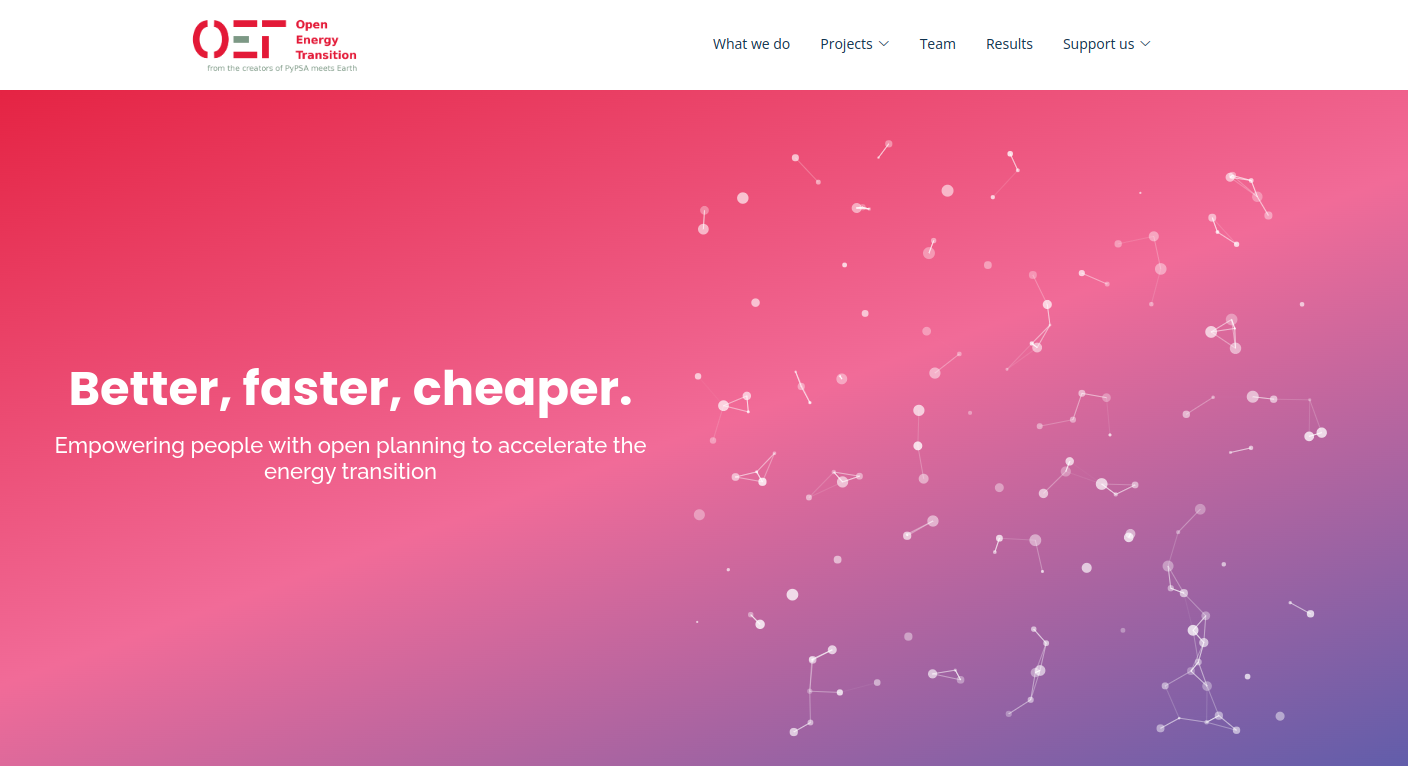
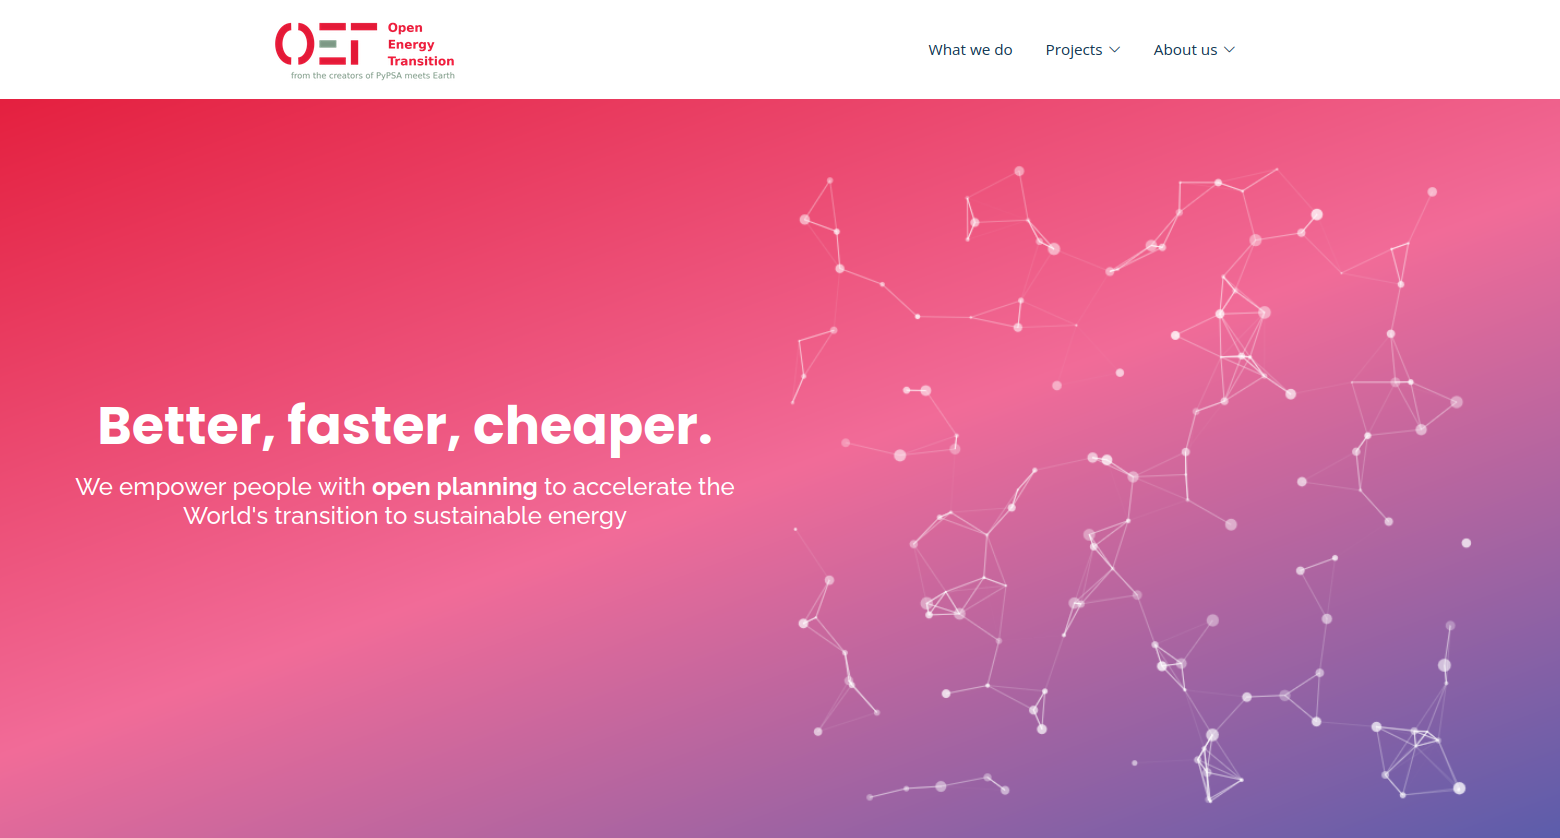
fix transiton typo and webscreenshot

diff --git a/index.html b/index.html
@@ -6,20 +6,20 @@
     <meta content="width=device-width, initial-scale=1.0" name="viewport">
 
     <!-- HTML Meta Tags -->
-    <title>Open Energy Transiton - A non-profit tackling globally energy planning challenges with an unique open approach.</title>
-    <meta name="description" content="The Open Energy Transiton gGmbH works on open-source software, open data and open communities for energy system planning to enable better decision-making."/>
+    <title>Open Energy Transition - A non-profit tackling globally energy planning challenges with an unique open approach.</title>
+    <meta name="description" content="The Open Energy Transition gGmbH works on open-source software, open data and open communities for energy system planning to enable better decision-making."/>
     <!-- Google verfication to be 'findable' on google -->
     <meta name="google-site-verification" content="gHJzkLzpVaJqghYQHRS6GrS92bTJjLyfr9FUIxQCd2U" />
     <!-- Authors -->
     <link rel="author" href="https://pypsa-earth.readthedocs.io/en/latest/project_structure_and_credits.html"/>
 
     <!-- Google / Search Engine Tags -->
-    <meta itemprop="name" content="Open Energy Transiton - A non-profit tackling energy planning challenges worldwide."/>
-    <meta itemprop="description" content="The Open Energy Transiton gGmbH works on open-source software, open data and open communities for energy system planning to enable better decision-making."/>
+    <meta itemprop="name" content="Open Energy Transition - A non-profit tackling energy planning challenges worldwide."/>
+    <meta itemprop="description" content="The Open Energy Transition gGmbH works on open-source software, open data and open communities for energy system planning to enable better decision-making."/>
     <meta itemprop="image" content="https://openenergytransition.org/assets/img/website_screenshot.png"/>
 
     <!-- Facebook Meta Tags -->
-    <meta name="title" property="og:title" content="Open Energy Transiton - A non-profit tackling energy planning challenges worldwide."/>
+    <meta name="title" property="og:title" content="Open Energy Transition - A non-profit tackling energy planning challenges worldwide."/>
     <meta name="type" property="og:type" content="website"/>
     <meta name="image" property="og:image" content="https://openenergytransition.org/assets/img/website_screenshot.png"/>
     <meta name="url" property="og:url" content="https://openenergytransition.org"/>
@@ -27,8 +27,8 @@
 
     <!-- Twitter Meta Tags -->
     <meta name="twitter:card" content="summary_large_image"/>
-    <meta name="twitter:title" content="Open Energy Transiton - A non-profit tackling energy planning challenges worldwide."/>
-    <meta name="twitter:description" content="The Open Energy Transiton gGmbH works on open-source software, open data and open communities for energy system planning to enable better decision-making."/>
+    <meta name="twitter:title" content="Open Energy Transition - A non-profit tackling energy planning challenges worldwide."/>
+    <meta name="twitter:description" content="The Open Energy Transition gGmbH works on open-source software, open data and open communities for energy system planning to enable better decision-making."/>
     <meta name="twitter:image" content="https://openenergytransition.org/assets/img/website_screenshot.png"/>
 
     <!-- Meta Tags Generated via http://heymeta.com -->
@@ -146,7 +146,7 @@
 
             <div class="section-title">
                 <h2 data-aos="fade-in">Services</h2>
-                <h4>We offer various services to empower you to accelerate the energy transition</h4>
+                <h4>We are a non-profit offering various services to empower you to accelerate the energy transition</h4>
             </div>
             <div class="row">
                 <div class="image lazyload col-xl-5 d-flex align-items-stretch justify-content-center justify-content-lg-start"></div>

diff --git a/about-us.html b/about-us.html
@@ -6,20 +6,20 @@
     <meta content="width=device-width, initial-scale=1.0" name="viewport">
 
     <!-- HTML Meta Tags -->
-    <title>Open Energy Transiton - A non-profit tackling globally energy planning challenges with an unique open approach.</title>
-    <meta name="description" content="The Open Energy Transiton gGmbH works on open-source software, open data and open communities for energy system planning to enable better decision-making."/>
+    <title>Open Energy Transition - A non-profit tackling globally energy planning challenges with an unique open approach.</title>
+    <meta name="description" content="The Open Energy Transition gGmbH works on open-source software, open data and open communities for energy system planning to enable better decision-making."/>
     <!-- Google verfication to be 'findable' on google -->
     <meta name="google-site-verification" content="gHJzkLzpVaJqghYQHRS6GrS92bTJjLyfr9FUIxQCd2U" />
     <!-- Authors -->
     <link rel="author" href="https://pypsa-earth.readthedocs.io/en/latest/project_structure_and_credits.html"/>
 
     <!-- Google / Search Engine Tags -->
-    <meta itemprop="name" content="Open Energy Transiton - A non-profit tackling energy planning challenges worldwide."/>
-    <meta itemprop="description" content="The Open Energy Transiton gGmbH works on open-source software, open data and open communities for energy system planning to enable better decision-making."/>
+    <meta itemprop="name" content="Open Energy Transition - A non-profit tackling energy planning challenges worldwide."/>
+    <meta itemprop="description" content="The Open Energy Transition gGmbH works on open-source software, open data and open communities for energy system planning to enable better decision-making."/>
     <meta itemprop="image" content="https://openenergytransition.org/assets/img/website_screenshot.png"/>
 
     <!-- Facebook Meta Tags -->
-    <meta name="title" property="og:title" content="Open Energy Transiton - A non-profit tackling energy planning challenges worldwide."/>
+    <meta name="title" property="og:title" content="Open Energy Transition - A non-profit tackling energy planning challenges worldwide."/>
     <meta name="type" property="og:type" content="website"/>
     <meta name="image" property="og:image" content="https://openenergytransition.org/assets/img/website_screenshot.png"/>
     <meta name="url" property="og:url" content="https://openenergytransition.org"/>
@@ -27,8 +27,8 @@
 
     <!-- Twitter Meta Tags -->
     <meta name="twitter:card" content="summary_large_image"/>
-    <meta name="twitter:title" content="Open Energy Transiton - A non-profit tackling energy planning challenges worldwide."/>
-    <meta name="twitter:description" content="The Open Energy Transiton gGmbH works on open-source software, open data and open communities for energy system planning to enable better decision-making."/>
+    <meta name="twitter:title" content="Open Energy Transition - A non-profit tackling energy planning challenges worldwide."/>
+    <meta name="twitter:description" content="The Open Energy Transition gGmbH works on open-source software, open data and open communities for energy system planning to enable better decision-making."/>
     <meta name="twitter:image" content="https://openenergytransition.org/assets/img/website_screenshot.png"/>
 
     <!-- Meta Tags Generated via https://heymeta.com -->

diff --git a/disclaimer.html b/disclaimer.html
@@ -6,20 +6,20 @@
     <meta content="width=device-width, initial-scale=1.0" name="viewport">
 
     <!-- HTML Meta Tags -->
-    <title>Open Energy Transiton - A non-profit tackling globally energy planning challenges with an unique open approach.</title>
-    <meta name="description" content="The Open Energy Transiton gGmbH works on open-source software, open data and open communities for energy system planning to enable better decision-making."/>
+    <title>Open Energy Transition - A non-profit tackling globally energy planning challenges with an unique open approach.</title>
+    <meta name="description" content="The Open Energy Transition gGmbH works on open-source software, open data and open communities for energy system planning to enable better decision-making."/>
     <!-- Google verfication to be 'findable' on google -->
     <meta name="google-site-verification" content="gHJzkLzpVaJqghYQHRS6GrS92bTJjLyfr9FUIxQCd2U" />
     <!-- Authors -->
     <link rel="author" href="https://pypsa-earth.readthedocs.io/en/latest/project_structure_and_credits.html"/>
 
     <!-- Google / Search Engine Tags -->
-    <meta itemprop="name" content="Open Energy Transiton - A non-profit tackling energy planning challenges worldwide."/>
-    <meta itemprop="description" content="The Open Energy Transiton gGmbH works on open-source software, open data and open communities for energy system planning to enable better decision-making."/>
+    <meta itemprop="name" content="Open Energy Transition - A non-profit tackling energy planning challenges worldwide."/>
+    <meta itemprop="description" content="The Open Energy Transition gGmbH works on open-source software, open data and open communities for energy system planning to enable better decision-making."/>
     <meta itemprop="image" content="https://openenergytransition.org/assets/img/website_screenshot.png"/>
 
     <!-- Facebook Meta Tags -->
-    <meta name="title" property="og:title" content="Open Energy Transiton - A non-profit tackling energy planning challenges worldwide."/>
+    <meta name="title" property="og:title" content="Open Energy Transition - A non-profit tackling energy planning challenges worldwide."/>
     <meta name="type" property="og:type" content="website"/>
     <meta name="image" property="og:image" content="https://openenergytransition.org/assets/img/website_screenshot.png"/>
     <meta name="url" property="og:url" content="https://openenergytransition.org"/>
@@ -27,8 +27,8 @@
 
     <!-- Twitter Meta Tags -->
     <meta name="twitter:card" content="summary_large_image"/>
-    <meta name="twitter:title" content="Open Energy Transiton - A non-profit tackling energy planning challenges worldwide."/>
-    <meta name="twitter:description" content="The Open Energy Transiton gGmbH works on open-source software, open data and open communities for energy system planning to enable better decision-making."/>
+    <meta name="twitter:title" content="Open Energy Transition - A non-profit tackling energy planning challenges worldwide."/>
+    <meta name="twitter:description" content="The Open Energy Transition gGmbH works on open-source software, open data and open communities for energy system planning to enable better decision-making."/>
     <meta name="twitter:image" content="https://openenergytransition.org/assets/img/website_screenshot.png"/>
 
     <!-- Meta Tags Generated via http://heymeta.com -->

diff --git a/legal.html b/legal.html
@@ -6,20 +6,20 @@
     <meta content="width=device-width, initial-scale=1.0" name="viewport">
 
     <!-- HTML Meta Tags -->
-    <title>Open Energy Transiton - A non-profit tackling globally energy planning challenges with an unique open approach.</title>
-    <meta name="description" content="The Open Energy Transiton gGmbH works on open-source software, open data and open communities for energy system planning to enable better decision-making."/>
+    <title>Open Energy Transition - A non-profit tackling globally energy planning challenges with an unique open approach.</title>
+    <meta name="description" content="The Open Energy Transition gGmbH works on open-source software, open data and open communities for energy system planning to enable better decision-making."/>
     <!-- Google verfication to be 'findable' on google -->
     <meta name="google-site-verification" content="gHJzkLzpVaJqghYQHRS6GrS92bTJjLyfr9FUIxQCd2U" />
     <!-- Authors -->
     <link rel="author" href="https://pypsa-earth.readthedocs.io/en/latest/project_structure_and_credits.html"/>
 
     <!-- Google / Search Engine Tags -->
-    <meta itemprop="name" content="Open Energy Transiton - A non-profit tackling energy planning challenges worldwide."/>
-    <meta itemprop="description" content="The Open Energy Transiton gGmbH works on open-source software, open data and open communities for energy system planning to enable better decision-making."/>
+    <meta itemprop="name" content="Open Energy Transition - A non-profit tackling energy planning challenges worldwide."/>
+    <meta itemprop="description" content="The Open Energy Transition gGmbH works on open-source software, open data and open communities for energy system planning to enable better decision-making."/>
     <meta itemprop="image" content="https://openenergytransition.org/assets/img/website_screenshot.png"/>
 
     <!-- Facebook Meta Tags -->
-    <meta name="title" property="og:title" content="Open Energy Transiton - A non-profit tackling energy planning challenges worldwide."/>
+    <meta name="title" property="og:title" content="Open Energy Transition - A non-profit tackling energy planning challenges worldwide."/>
     <meta name="type" property="og:type" content="website"/>
     <meta name="image" property="og:image" content="https://openenergytransition.org/assets/img/website_screenshot.png"/>
     <meta name="url" property="og:url" content="https://openenergytransition.org"/>
@@ -27,8 +27,8 @@
 
     <!-- Twitter Meta Tags -->
     <meta name="twitter:card" content="summary_large_image"/>
-    <meta name="twitter:title" content="Open Energy Transiton - A non-profit tackling energy planning challenges worldwide."/>
-    <meta name="twitter:description" content="The Open Energy Transiton gGmbH works on open-source software, open data and open communities for energy system planning to enable better decision-making."/>
+    <meta name="twitter:title" content="Open Energy Transition - A non-profit tackling energy planning challenges worldwide."/>
+    <meta name="twitter:description" content="The Open Energy Transition gGmbH works on open-source software, open data and open communities for energy system planning to enable better decision-making."/>
     <meta name="twitter:image" content="https://openenergytransition.org/assets/img/website_screenshot.png"/>
 
     <!-- Meta Tags Generated via http://heymeta.com -->

diff --git a/privacy.html b/privacy.html
@@ -6,20 +6,20 @@
     <meta content="width=device-width, initial-scale=1.0" name="viewport">
 
     <!-- HTML Meta Tags -->
-    <title>Open Energy Transiton - A non-profit tackling globally energy planning challenges with an unique open approach.</title>
-    <meta name="description" content="The Open Energy Transiton gGmbH works on open-source software, open data and open communities for energy system planning to enable better decision-making."/>
+    <title>Open Energy Transition - A non-profit tackling globally energy planning challenges with an unique open approach.</title>
+    <meta name="description" content="The Open Energy Transition gGmbH works on open-source software, open data and open communities for energy system planning to enable better decision-making."/>
     <!-- Google verfication to be 'findable' on google -->
     <meta name="google-site-verification" content="gHJzkLzpVaJqghYQHRS6GrS92bTJjLyfr9FUIxQCd2U" />
     <!-- Authors -->
     <link rel="author" href="https://pypsa-earth.readthedocs.io/en/latest/project_structure_and_credits.html"/>
 
     <!-- Google / Search Engine Tags -->
-    <meta itemprop="name" content="Open Energy Transiton - A non-profit tackling energy planning challenges worldwide."/>
-    <meta itemprop="description" content="The Open Energy Transiton gGmbH works on open-source software, open data and open communities for energy system planning to enable better decision-making."/>
+    <meta itemprop="name" content="Open Energy Transition - A non-profit tackling energy planning challenges worldwide."/>
+    <meta itemprop="description" content="The Open Energy Transition gGmbH works on open-source software, open data and open communities for energy system planning to enable better decision-making."/>
     <meta itemprop="image" content="https://openenergytransition.org/assets/img/website_screenshot.png"/>
 
     <!-- Facebook Meta Tags -->
-    <meta name="title" property="og:title" content="Open Energy Transiton - A non-profit tackling energy planning challenges worldwide."/>
+    <meta name="title" property="og:title" content="Open Energy Transition - A non-profit tackling energy planning challenges worldwide."/>
     <meta name="type" property="og:type" content="website"/>
     <meta name="image" property="og:image" content="https://openenergytransition.org/assets/img/website_screenshot.png"/>
     <meta name="url" property="og:url" content="https://openenergytransition.org"/>
@@ -27,8 +27,8 @@
 
     <!-- Twitter Meta Tags -->
     <meta name="twitter:card" content="summary_large_image"/>
-    <meta name="twitter:title" content="Open Energy Transiton - A non-profit tackling energy planning challenges worldwide."/>
-    <meta name="twitter:description" content="The Open Energy Transiton gGmbH works on open-source software, open data and open communities for energy system planning to enable better decision-making."/>
+    <meta name="twitter:title" content="Open Energy Transition - A non-profit tackling energy planning challenges worldwide."/>
+    <meta name="twitter:description" content="The Open Energy Transition gGmbH works on open-source software, open data and open communities for energy system planning to enable better decision-making."/>
     <meta name="twitter:image" content="https://openenergytransition.org/assets/img/website_screenshot.png"/>
 
     <!-- Meta Tags Generated via http://heymeta.com -->

diff --git a/projects.html b/projects.html
@@ -6,20 +6,20 @@
     <meta content="width=device-width, initial-scale=1.0" name="viewport">
 
     <!-- HTML Meta Tags -->
-    <title>Open Energy Transiton - A non-profit tackling globally energy planning challenges with an unique open approach.</title>
-    <meta name="description" content="The Open Energy Transiton gGmbH works on open-source software, open data and open communities for energy system planning to enable better decision-making."/>
+    <title>Open Energy Transition - A non-profit tackling globally energy planning challenges with an unique open approach.</title>
+    <meta name="description" content="The Open Energy Transition gGmbH works on open-source software, open data and open communities for energy system planning to enable better decision-making."/>
     <!-- Google verfication to be 'findable' on google -->
     <meta name="google-site-verification" content="gHJzkLzpVaJqghYQHRS6GrS92bTJjLyfr9FUIxQCd2U" />
     <!-- Authors -->
     <link rel="author" href="https://pypsa-earth.readthedocs.io/en/latest/project_structure_and_credits.html"/>
 
     <!-- Google / Search Engine Tags -->
-    <meta itemprop="name" content="Open Energy Transiton - A non-profit tackling energy planning challenges worldwide."/>
-    <meta itemprop="description" content="The Open Energy Transiton gGmbH works on open-source software, open data and open communities for energy system planning to enable better decision-making."/>
+    <meta itemprop="name" content="Open Energy Transition - A non-profit tackling energy planning challenges worldwide."/>
+    <meta itemprop="description" content="The Open Energy Transition gGmbH works on open-source software, open data and open communities for energy system planning to enable better decision-making."/>
     <meta itemprop="image" content="https://openenergytransition.org/assets/img/website_screenshot.png"/>
 
     <!-- Facebook Meta Tags -->
-    <meta name="title" property="og:title" content="Open Energy Transiton - A non-profit tackling energy planning challenges worldwide."/>
+    <meta name="title" property="og:title" content="Open Energy Transition - A non-profit tackling energy planning challenges worldwide."/>
     <meta name="type" property="og:type" content="website"/>
     <meta name="image" property="og:image" content="https://openenergytransition.org/assets/img/website_screenshot.png"/>
     <meta name="url" property="og:url" content="https://openenergytransition.org"/>
@@ -27,8 +27,8 @@
 
     <!-- Twitter Meta Tags -->
     <meta name="twitter:card" content="summary_large_image"/>
-    <meta name="twitter:title" content="Open Energy Transiton - A non-profit tackling energy planning challenges worldwide."/>
-    <meta name="twitter:description" content="The Open Energy Transiton gGmbH works on open-source software, open data and open communities for energy system planning to enable better decision-making."/>
+    <meta name="twitter:title" content="Open Energy Transition - A non-profit tackling energy planning challenges worldwide."/>
+    <meta name="twitter:description" content="The Open Energy Transition gGmbH works on open-source software, open data and open communities for energy system planning to enable better decision-making."/>
     <meta name="twitter:image" content="https://openenergytransition.org/assets/img/website_screenshot.png"/>
 
     <!-- Meta Tags Generated via http://heymeta.com -->
